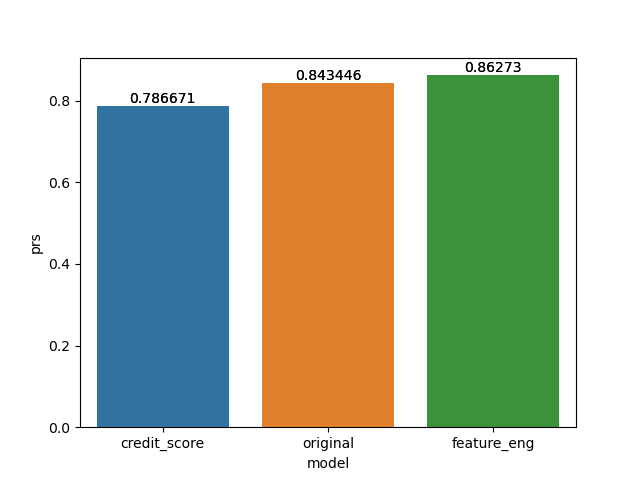
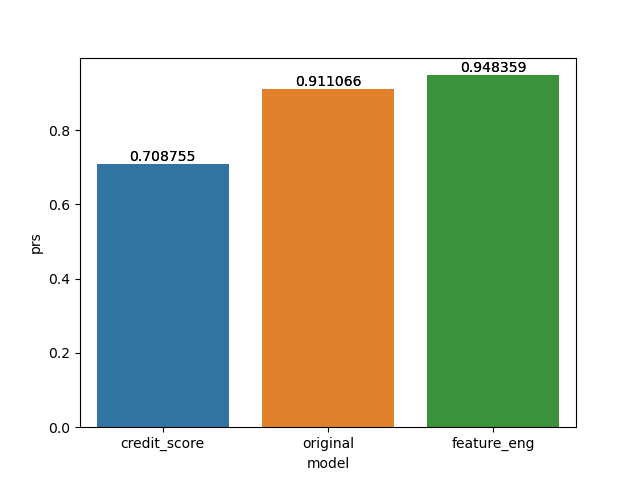
changed data so that same consistent last 1000 values used for test

diff --git a/src/risknet/proc/reducer.py b/src/risknet/proc/reducer.py
@@ -36,15 +36,15 @@ def reduce(fm_root, i, p_true):
         temp.columns = origination_cols
         temp = temp.drop(columns = "row_hash")
 
-        df = pd.concat([Reducer.simple_ts_split(temp.merge(
+        df = pd.concat([Reducer.em_simple_ts_split(temp.merge(
                 pd.read_pickle(fm_root + 'dev_labels.parquet'), on="loan_sequence_number",
                 how="inner").merge(
                 pd.read_pickle(fm_root + 'dev_reg_labels.parquet'), on="loan_sequence_number",
-                how="inner").drop(columns=drop_cols), sort_key='first_payment_date', split_ratio=[0.8, 0.1, 0.1])])
+                how="inner").drop(columns=drop_cols), sort_key='first_payment_date', split_ratio=[0.8, 0.1], test_size=1_000)])
     else:
-        df = pd.concat([Reducer.simple_ts_split(pd.read_csv(fm_root + "historical_data_2009Q1.txt", sep='|', index_col=False, nrows=1_000_000, names=origination_cols).merge(
+        df = pd.concat([Reducer.em_simple_ts_split(pd.read_csv(fm_root + "historical_data_2009Q1.txt", sep='|', index_col=False, nrows=1_000_000, names=origination_cols).merge(
             pd.read_pickle(fm_root + 'dev_labels.pkl'), on="loan_sequence_number", how="inner").merge(
-            pd.read_pickle(fm_root + 'dev_reg_labels.pkl'), on="loan_sequence_number", how="inner").drop(columns=drop_cols), sort_key='first_payment_date', split_ratio=[0.8, 0.1, 0.1])])
+            pd.read_pickle(fm_root + 'dev_reg_labels.pkl'), on="loan_sequence_number", how="inner").drop(columns=drop_cols), sort_key='first_payment_date', split_ratio=[0.8, 0.1], test_size=1_000)])
     return df
 
 class Reducer:
@@ -128,6 +128,24 @@ class Reducer:
 
       df['flag'] = np.select(conditions, choices, default=np.nan)
       #df['flag'] = np.where(df.loc[:, sort_key].rank(pct=True, method='first') <= split_ratio, 'train', 'test')
+      return df
+
+    @staticmethod #MODIFIED BY EC TO GET TRAIN/TEST/VALIDATION and consistently-sized test size
+    def em_simple_ts_split(df: DataFrame, sort_key: str, split_ratio: list = [0.8, 0.1], test_size=1_000):
+      first_div = split_ratio[0]
+      df = df.sort_values(by=[sort_key])
+
+      #Identify last 1M data points
+      test_div = df.shape[0] - test_size #Get the last 1_000_000 entries
+
+      conditions = [df.loc[:, sort_key].rank(pct=True, method='first') <= first_div, \
+       (df.loc[:, sort_key].rank(pct=True, method='first') > first_div) & (df.loc[:, sort_key].rank(method='first') < test_div), \
+                    df.loc[:, sort_key].rank(method='first') > test_div]
+      choices     = [ 'train', 'val', 'test']
+
+      df['flag'] = np.select(conditions, choices, default=np.nan)
+      #df['flag'] = np.where(df.loc[:, sort_key].rank(pct=True, method='first') <= split_ratio, 'train', 'test')
+      print("train size: ", str(df['flag'].value_counts()['train']), ", val size: ", str(df['flag'].value_counts()['val']), ", test size: ", str(df['flag'].value_counts()['test']))
       return df
 
     @staticmethod
